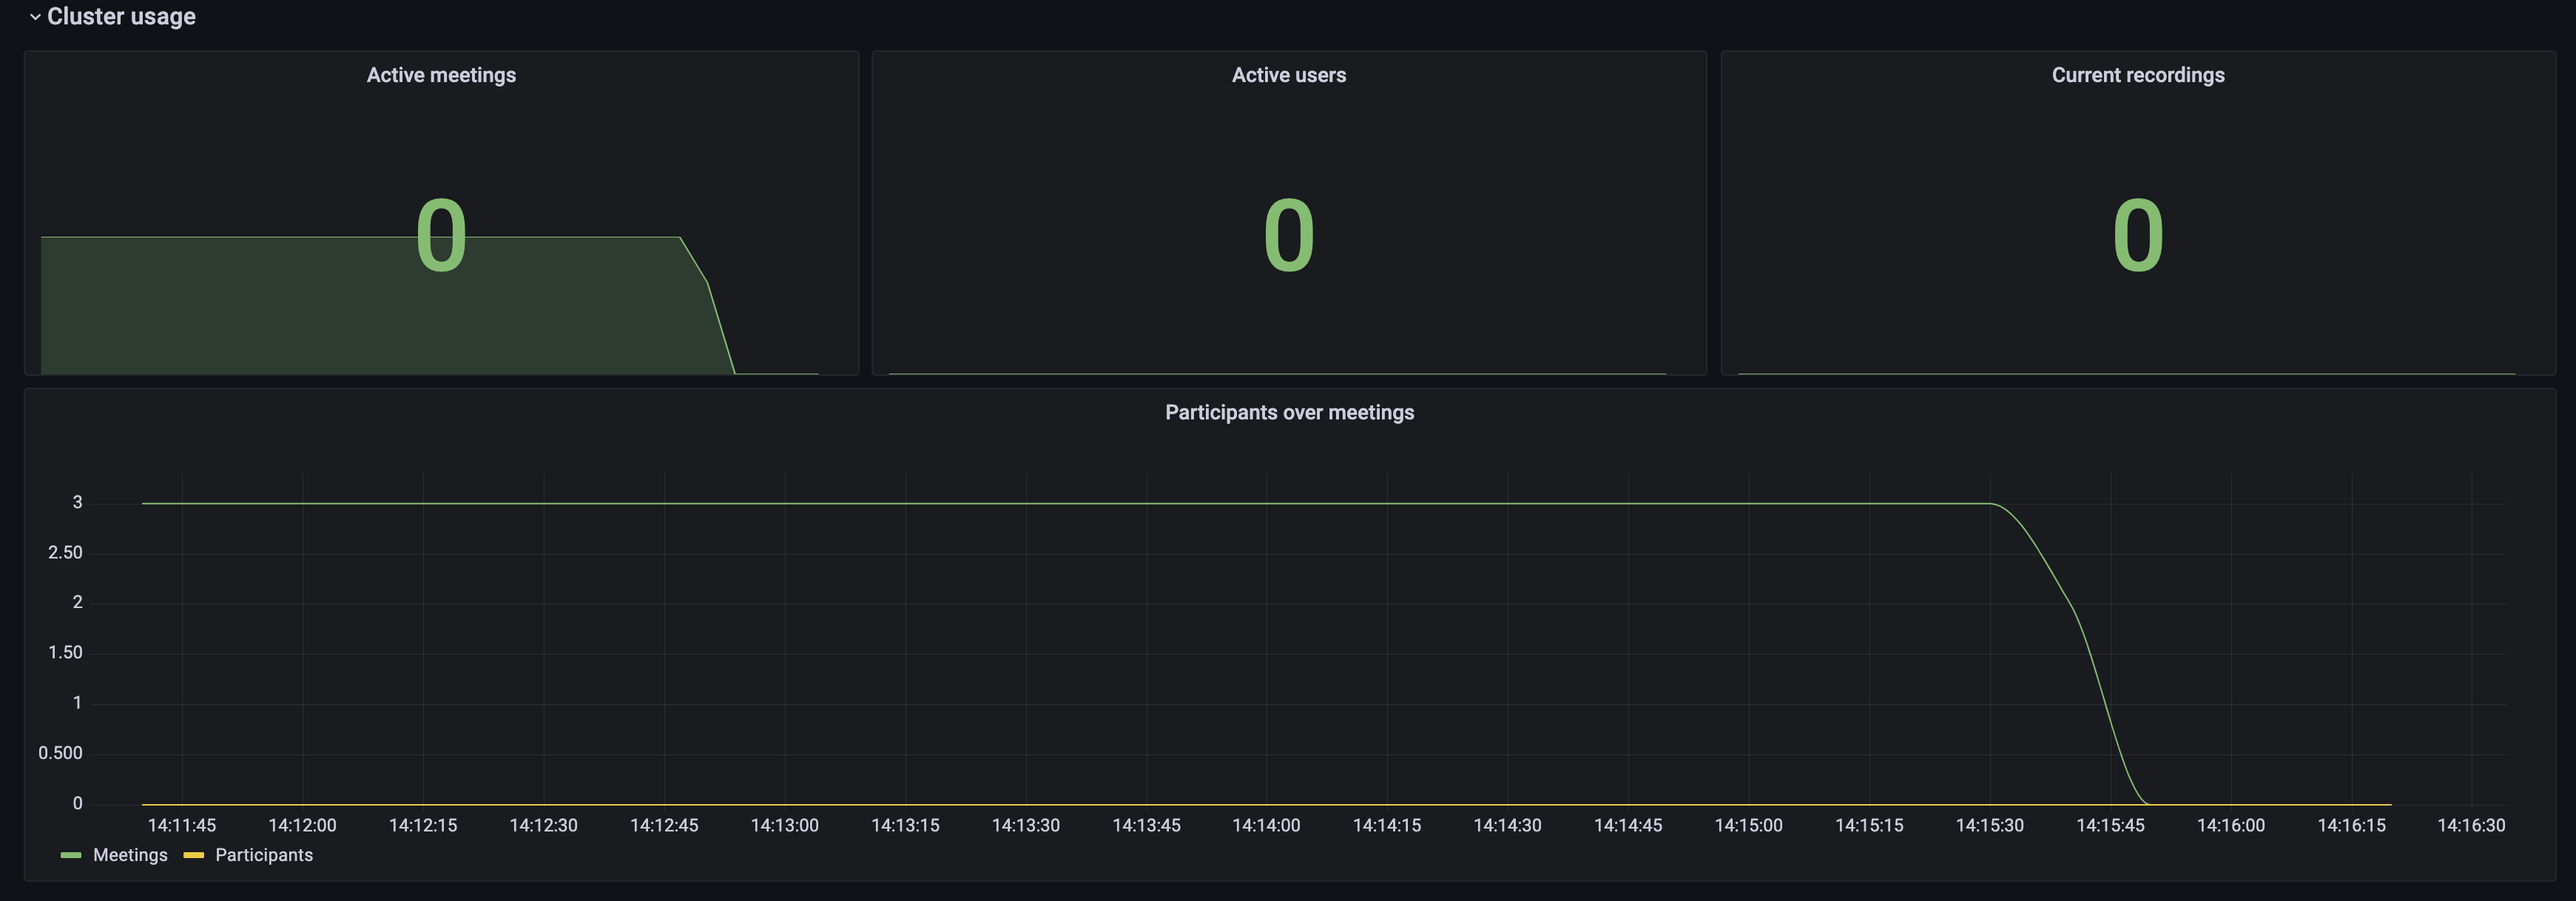
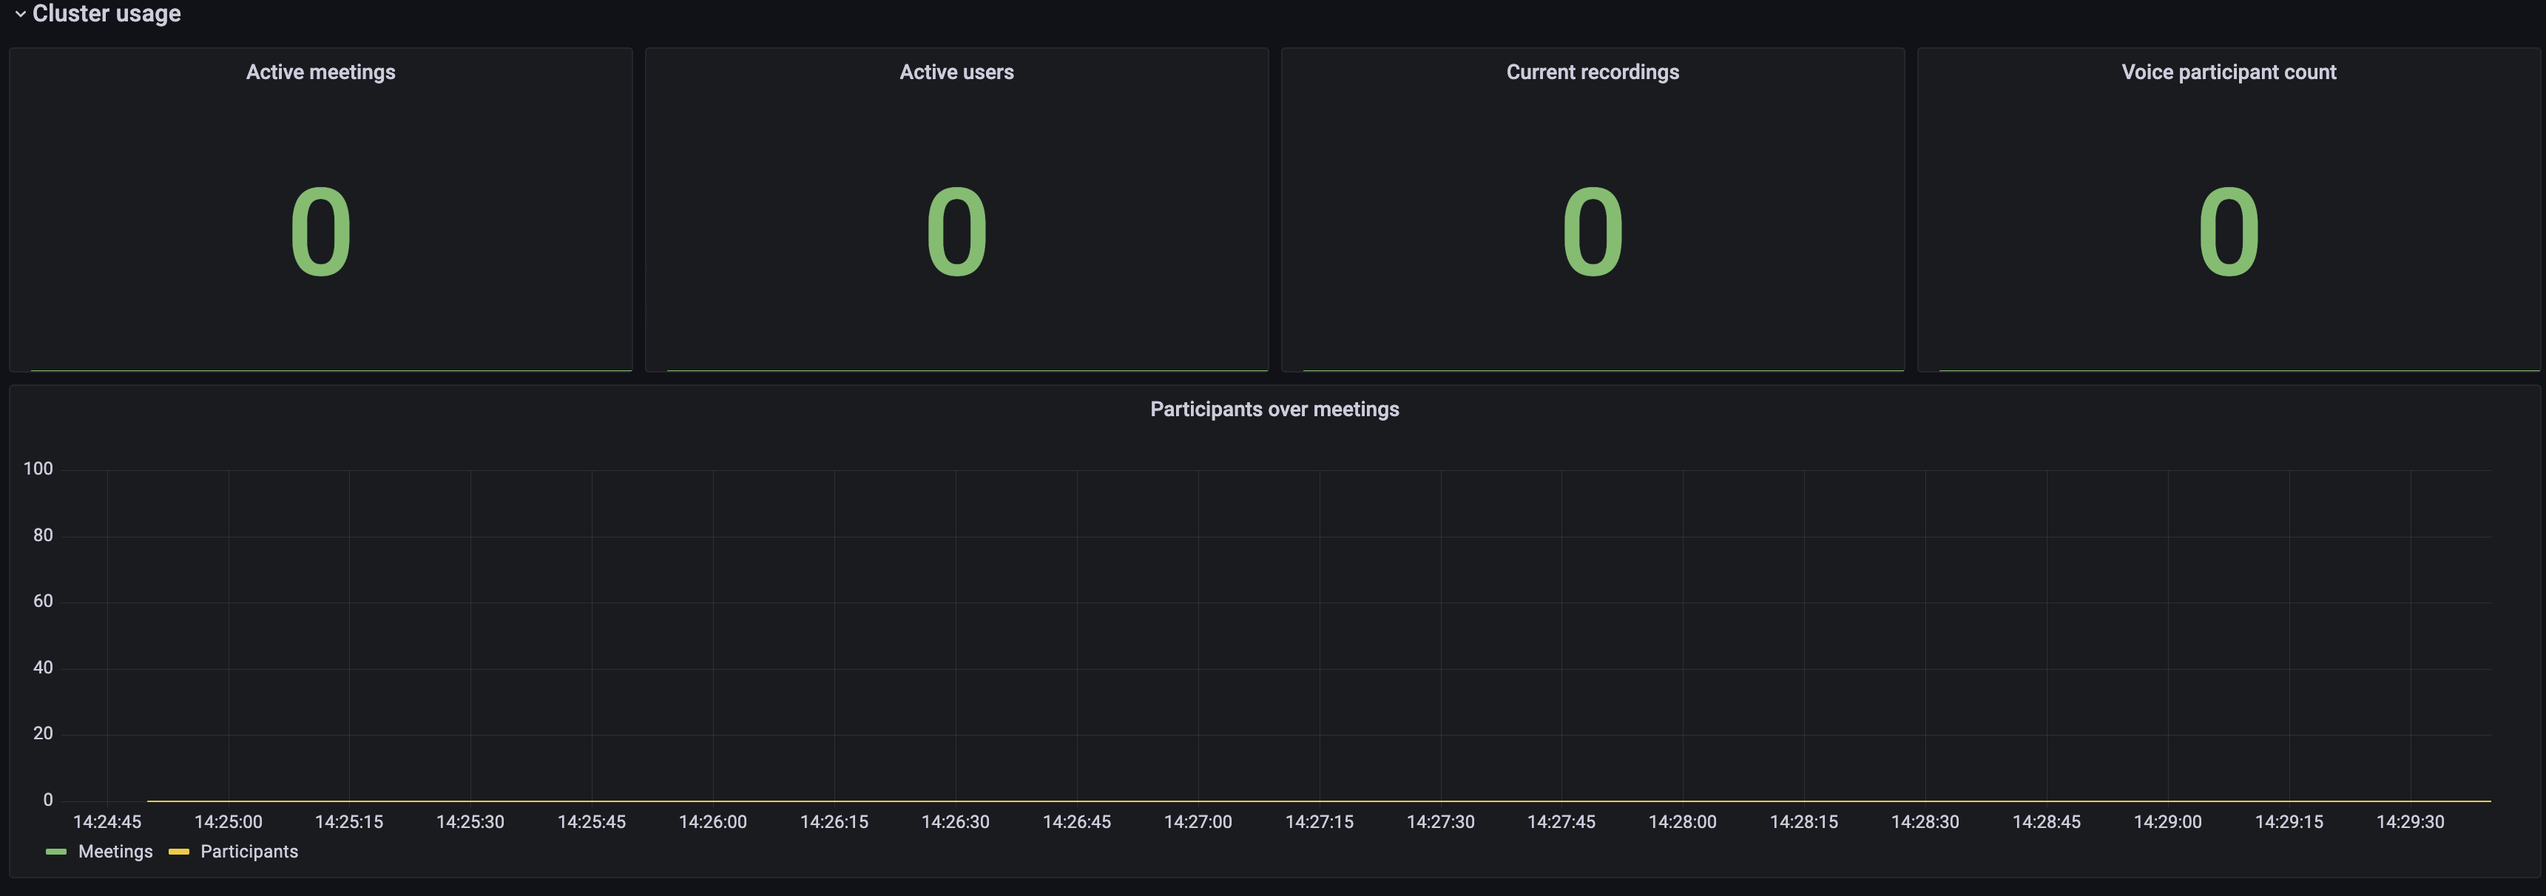
feat: add voice participant count #14

diff --git a/README.md b/README.md
@@ -6,6 +6,7 @@ Functional metrics:
 - active meetings stat;
 - active users stat;
 - recording currently stored stat;
+- active voice participants count;
 - active users over active meetings graph;
 
 <p align="center">
